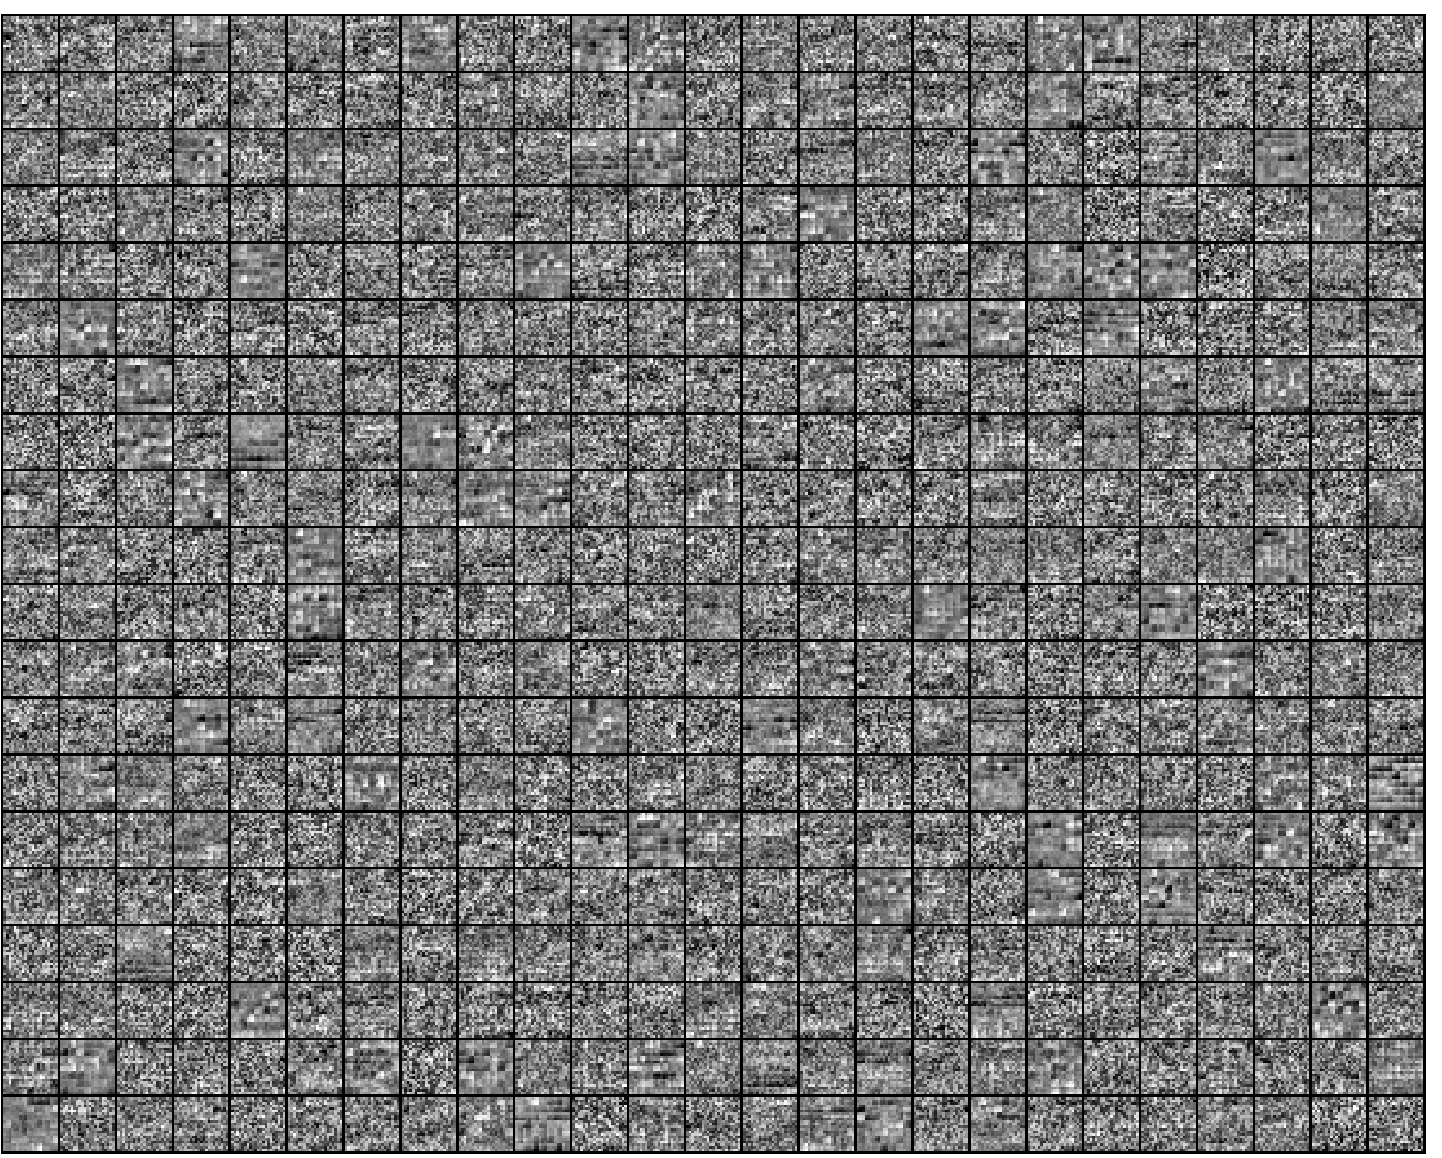
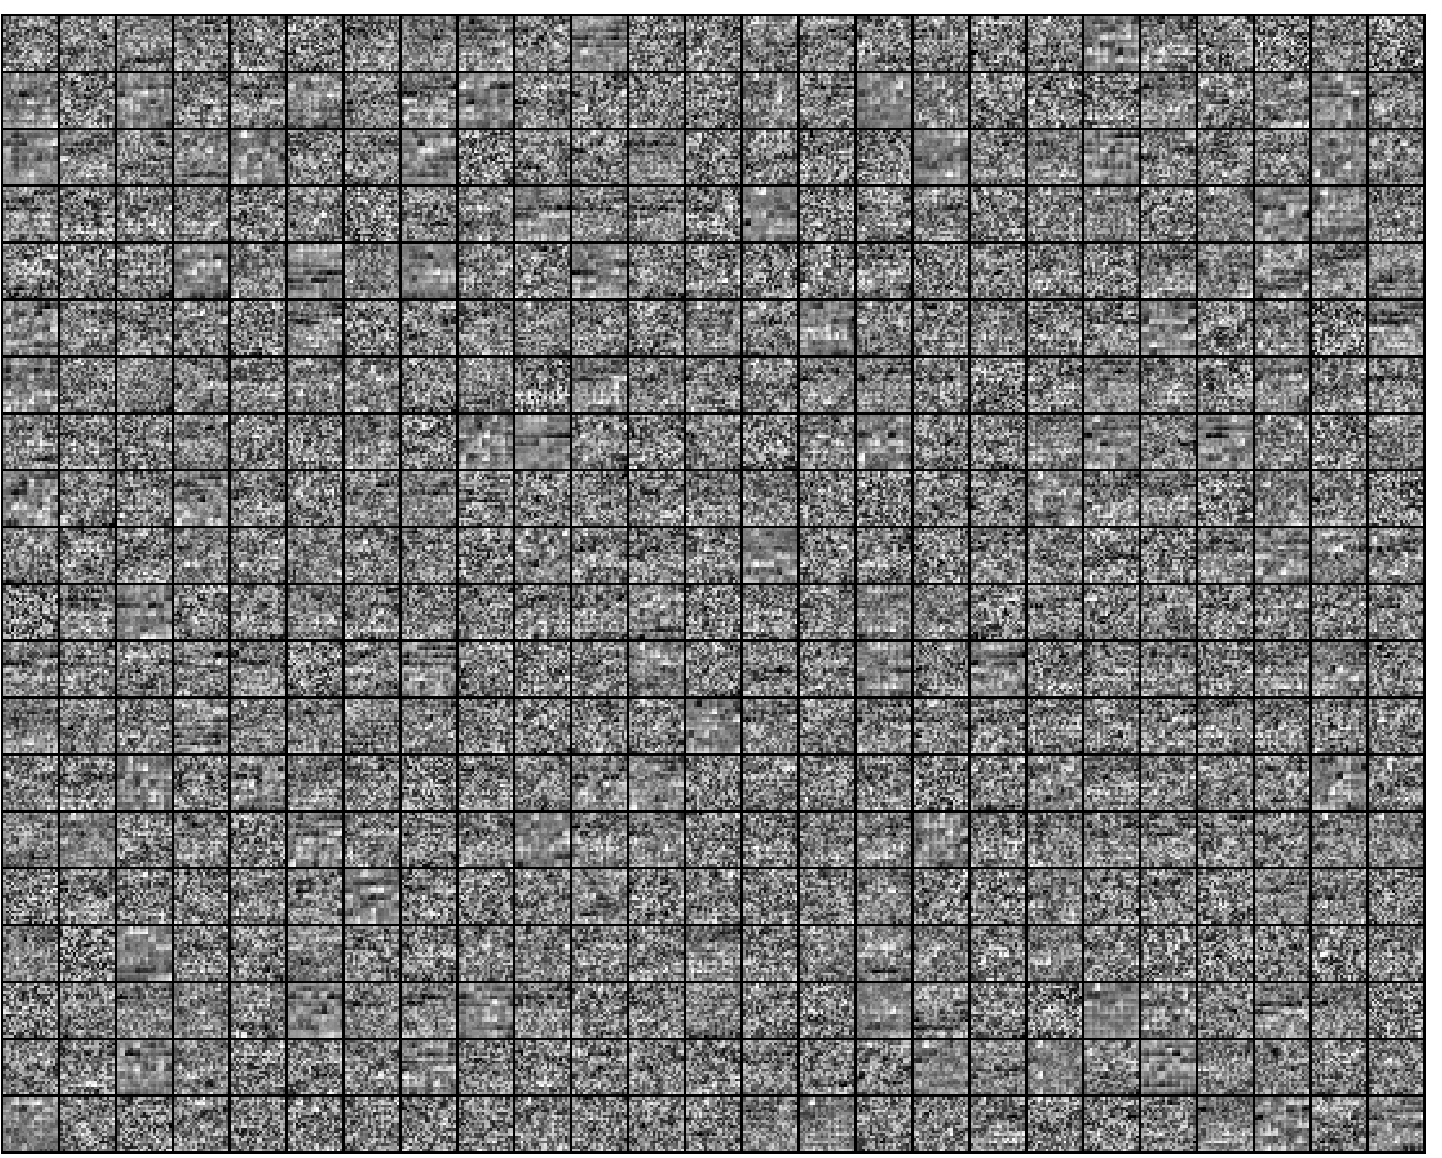
Setup for run

diff --git a/train.m b/train.m
@@ -9,7 +9,7 @@ close all
 params.patchsize = 21;
 params.visibleSize = params.patchsize* params.patchsize;   % number of input units 
 params.hiddenSize = 500;     % number of hidden units 
-params.sparsityParam = 0;   % desired average activation of the hidden units.
+params.sparsityParam = 0.05;   % desired average activation of the hidden units.
                      % (This was denoted by the Greek alphabet rho, which looks like a lower-case "p",
 		     %  in the lecture notes). 
 params.lambda = 0.0001;     % weight decay parameter       
